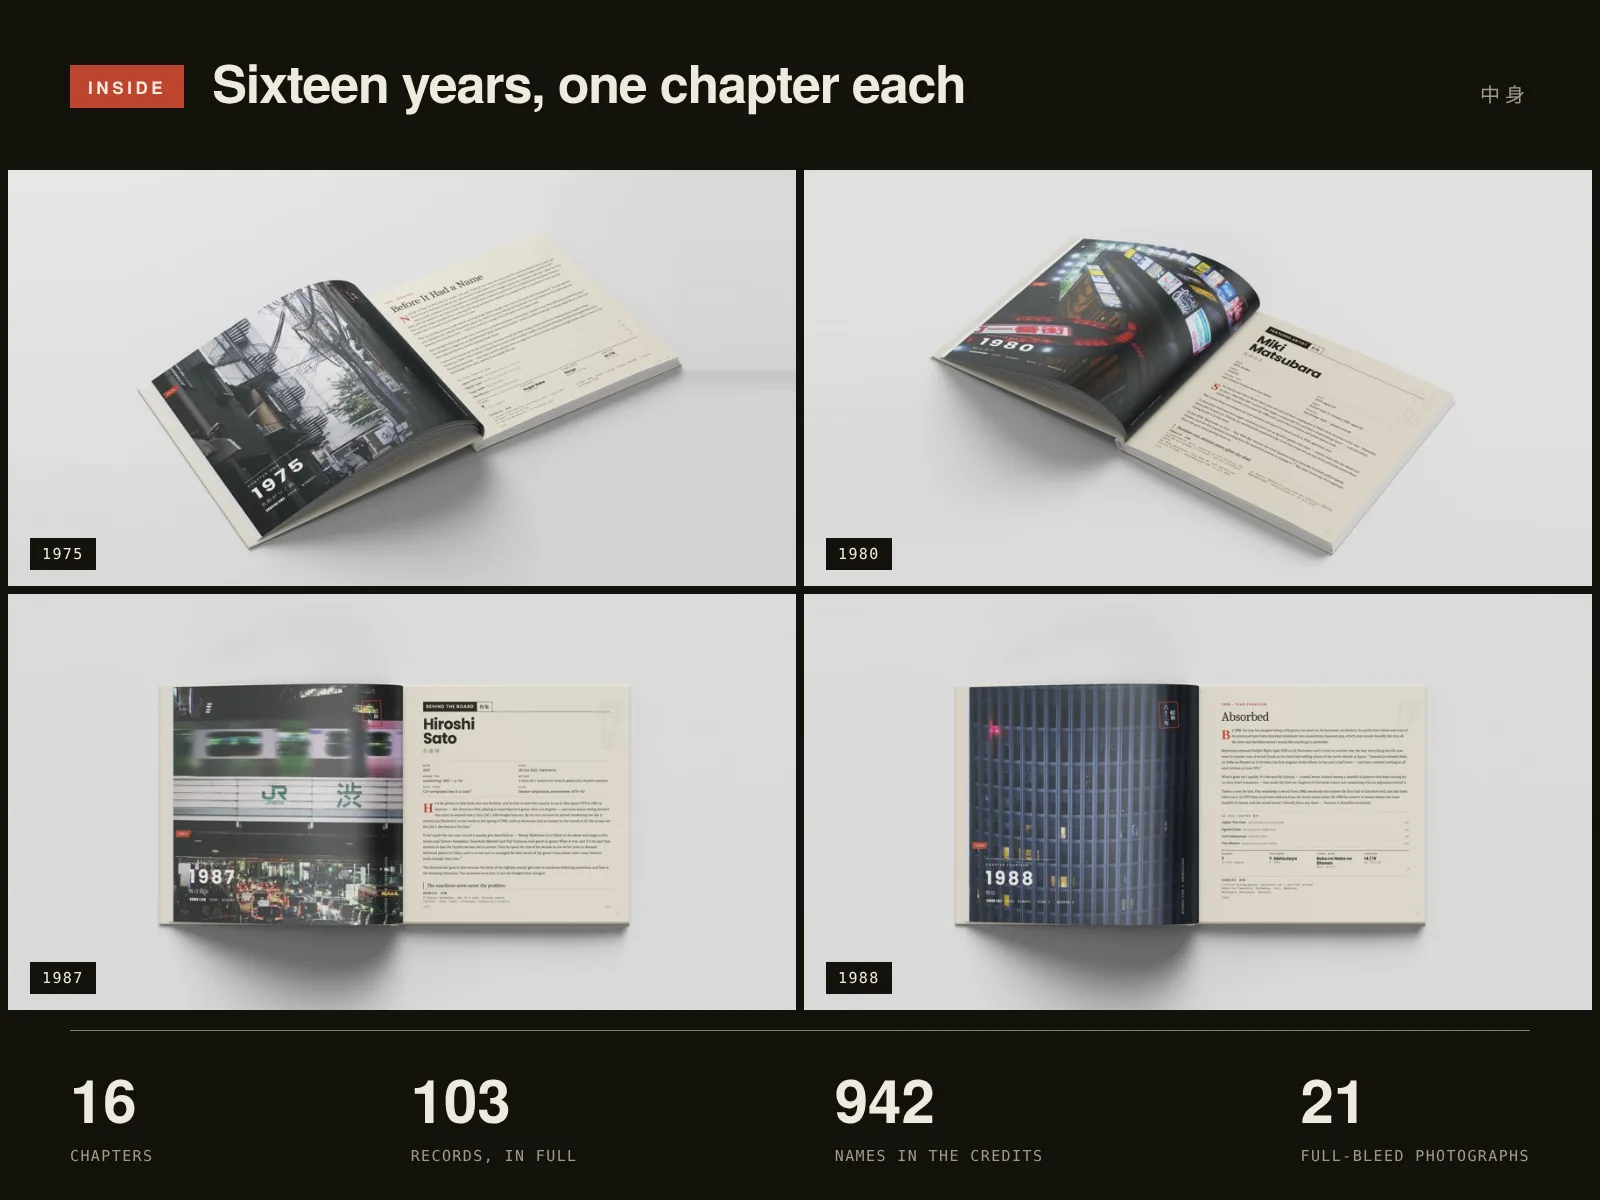
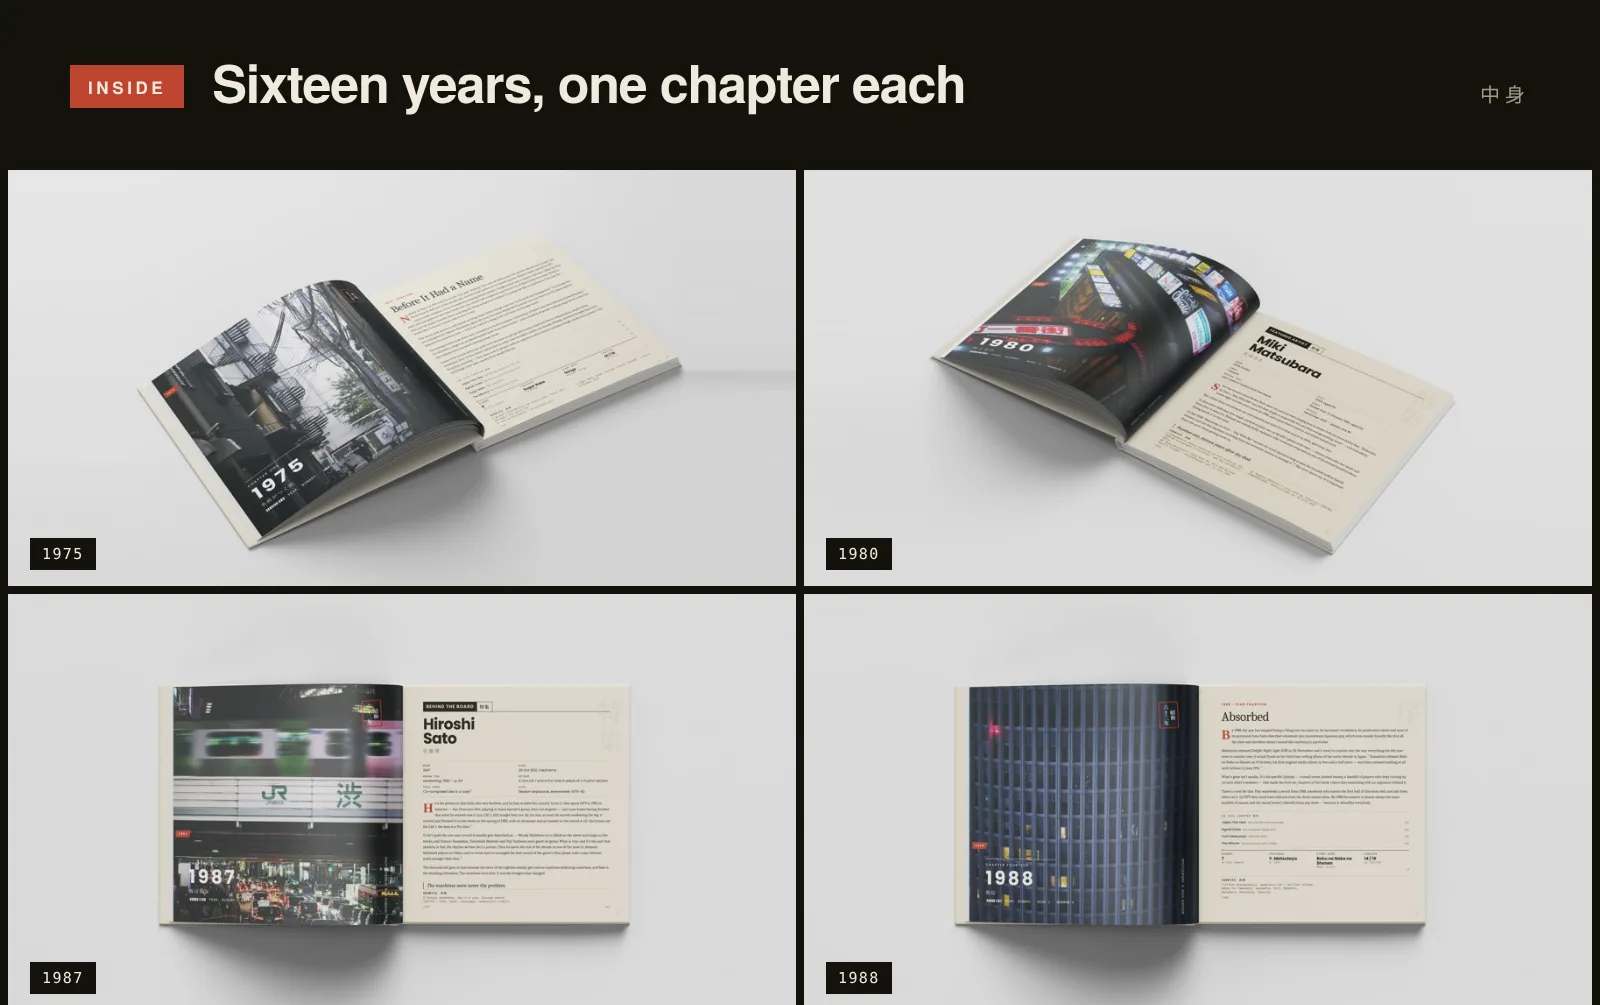
Book page: drop stats bar from inside image (102 records, not 103)
Claude-Session: https://claude.ai/code/session_01McCDnEh9LdqHLqWwUrtrFz

diff --git a/_build/book.html b/_build/book.html
@@ -13,7 +13,7 @@
 <h2>Sixteen years, one chapter each</h2>
 <p>The book runs chronologically from 1975 through 1990, with each chapter dedicated to a single year. It treats City Pop as a living timeline: how it emerged, how it shifted, and how its sound spread through artists, producers, fashion, nightlife and design.</p>
 <p>Open it anywhere and you find something useful, whether that is a deep cut, an artist you have never heard of, or context that reframes a familiar track. For long-time listeners it brings structure and depth that has never existed in one place. For new listeners it is a guided way into a catalog that can feel overwhelming. For collectors and DJs it is a reference built around real listening culture.</p>
-<figure><img src="/img/book/inside.webp" alt="Open spreads from the 1975, 1980, 1987 and 1988 chapters" loading="lazy" width="1600" height="1200"></figure>
+<figure><img src="/img/book/inside.webp" alt="Open spreads from the 1975, 1980, 1987 and 1988 chapters" loading="lazy" width="1600" height="1005"></figure>
 </div></section>
 
 <section class="about-section"><p class="about-section-label">02 · The object</p><div class="about-section-body">

diff --git a/somehow-city-pop-book/index.html b/somehow-city-pop-book/index.html
@@ -28,7 +28,7 @@
 <h2>Sixteen years, one chapter each</h2>
 <p>The book runs chronologically from 1975 through 1990, with each chapter dedicated to a single year. It treats City Pop as a living timeline: how it emerged, how it shifted, and how its sound spread through artists, producers, fashion, nightlife and design.</p>
 <p>Open it anywhere and you find something useful, whether that is a deep cut, an artist you have never heard of, or context that reframes a familiar track. For long-time listeners it brings structure and depth that has never existed in one place. For new listeners it is a guided way into a catalog that can feel overwhelming. For collectors and DJs it is a reference built around real listening culture.</p>
-<figure><img src="/img/book/inside.webp" alt="Open spreads from the 1975, 1980, 1987 and 1988 chapters" loading="lazy" width="1600" height="1200"></figure>
+<figure><img src="/img/book/inside.webp" alt="Open spreads from the 1975, 1980, 1987 and 1988 chapters" loading="lazy" width="1600" height="1005"></figure>
 </div></section>
 
 <section class="about-section"><p class="about-section-label">02 · The object</p><div class="about-section-body">
